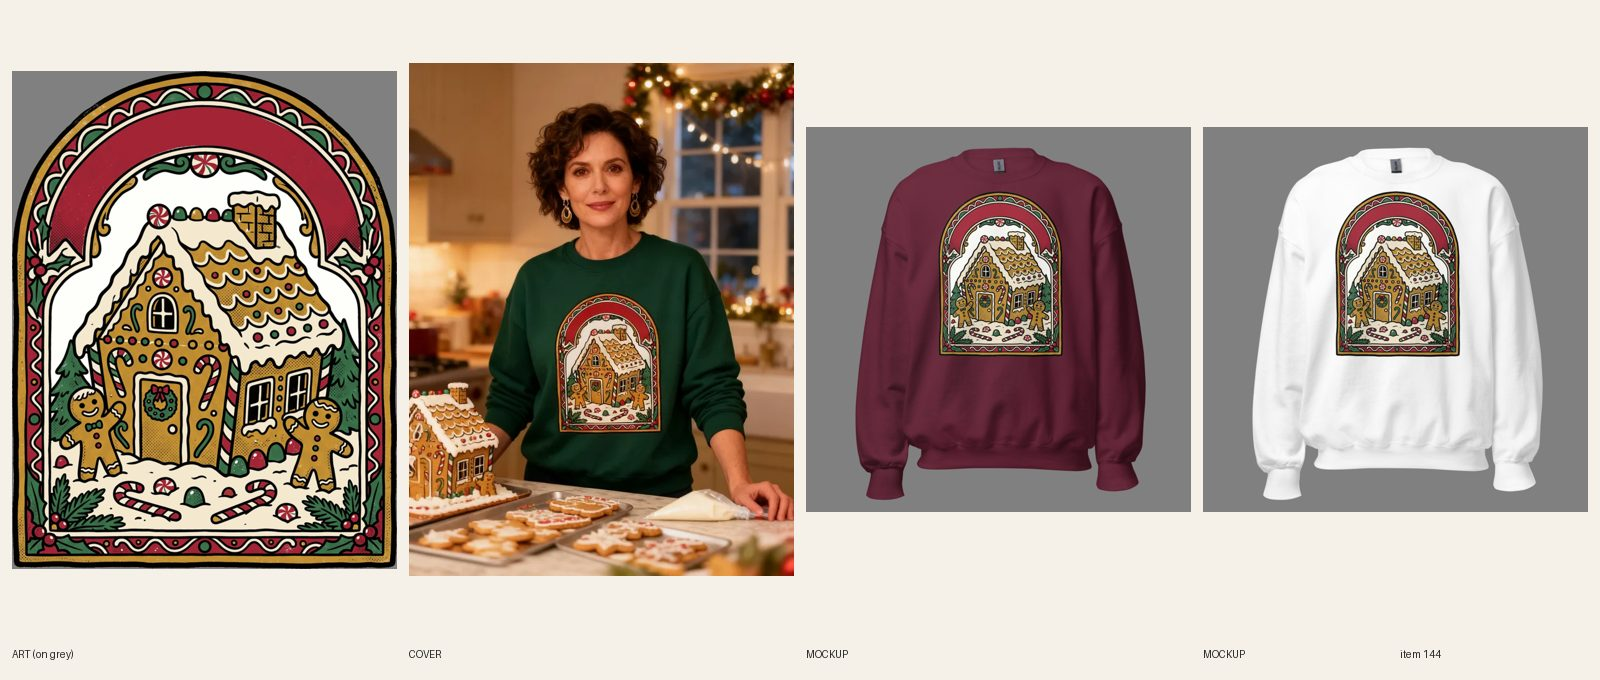
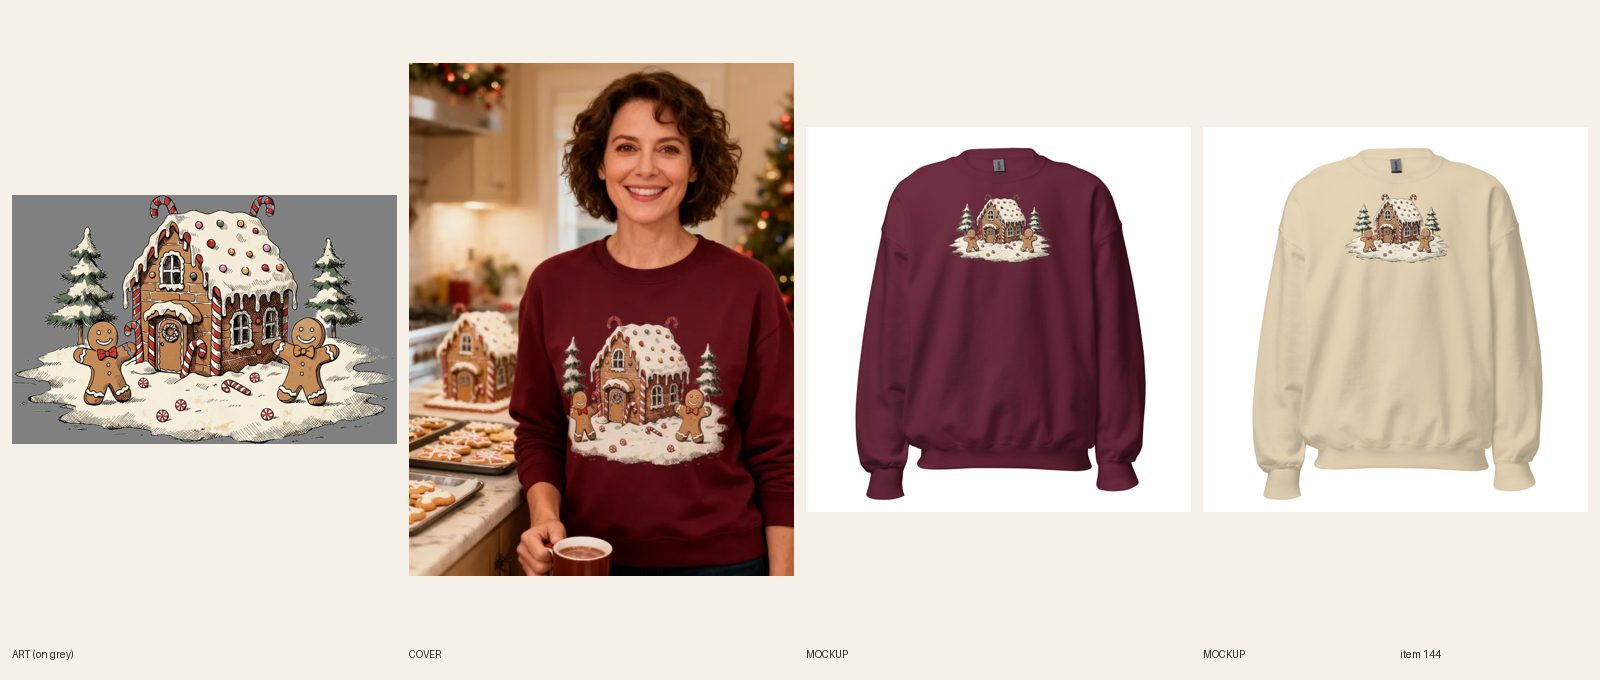
[A] 144 redraw: frameless art, mockups, cover; sync queued

diff --git a/docs/model-registry.md b/docs/model-registry.md
@@ -197,7 +197,7 @@ Rows 11–43 were re-pointed on 2026-10-08 when the briefs were rewritten from d
 | 211 | Woman in her late 50s, sun-kissed skin, short ash-blonde waves | USED 2026-10-16 — Christmas Golf crewneck cover (fal Seedream 4, try 1; clubhouse at Christmas) |
 | 212 | Woman in her mid 20s, long dark hair in a sleek low ponytail with a velvet bow | USED 2026-10-16 — Nutcracker Bow crewneck cover (fal Seedream 4, try 1; nutcracker mantel) |
 | 213 | Woman in her late 30s, strawberry-blonde braid over one shoulder | USED 2026-10-16 — Highland Cow Christmas crewneck cover (fal Seedream 4, try 1; farm Christmas market) |
-| 214 | Woman in her early 40s, short natural curls, warm brown eyes | USED 2026-10-16 — Gingerbread Lane crewneck cover (fal Seedream 4, try 1; cookie-decorating kitchen) |
+| 214 | Woman in her early 40s, short natural curls, warm brown eyes | USED 2026-10-16 — Gingerbread Lane crewneck cover (fal Seedream 4, try 1; cookie-decorating kitchen); REDO 2026-10-16: regenerated for the redrawn frameless art (try 1 kept) |
 | 215 | Woman in her late 60s, white shoulder-length hair, rosy cheeks | USED 2026-10-16 — Vintage Snowman crewneck cover (fal Seedream 4, try 1; snow-day cabin) |
 | 216 | Black man in his late 30s, short fade, neat full beard, broad build | USED 2026-10-16 — Define Naughty tee cover (fal Seedream 4, try 2: try 1 mug covered the print; living room, Christmas morning) |
 | 217 | Pair: Filipino man in his early 30s, side-parted black hair + white woman in her early 30s, copper-red shoulder-length hair | USED 2026-10-16 — #147 Define Naughty crewneck cover (fal Seedream 4, office holiday party; try 2 kept: try 1 had a coffee cup over the print; her cup still clips the end of NAUGHTY, his print is complete) |

diff --git a/docs/pipeline/144-christmas-gingerbread-lane.md b/docs/pipeline/144-christmas-gingerbread-lane.md
@@ -1,4 +1,4 @@
-status: BUILDING [A] 2026-10-16 18:15 UTC
+status: REVIEW
 lane: A
 type: twin
 id: 144
@@ -16,3 +16,4 @@ handle: womens-christmas-gingerbread-lane-crewneck-sweatshirt
 - NOTE for director: the reused tee art is an arched framed emblem (R4.1 badge look); built before the rule, twin reuses it unchanged.
 - 2026-10-16 14:17 UTC director: PARKED. Art and cover are otherwise strong (cover passes R6), copy fine. Asked Sam on Telegram.
 - 2026-10-16 16:39 UTC Claude (Sam decided): REDRAW the art without the arch frame (R4.1). A new art generation is allowed here; update the tee's print file too only if Sam asks later. Keep the same product, cover scene and copy.
+- 2026-10-16 UTC builder [A]: REDRAW done per Sam's call. New frameless art (Recraft v4 try 1, no arch, banner or border: a gingerbread house, two gingerbread men, two pines and peppermints on a snow drift that fades out), print-prep + knock-out checked on grey and maroon, Printful file 1087725265. Same Shopify product (15360179863856), copy and prices unchanged. 8 fronts + back replaced in place (fileUpdate keeps variant links). Cover regenerated for the new art on Maroon (woman #214, kitchen with gingerbread house, try 1). Printful re-sync of all 57 queued: `FORCE=1 python3 scripts/pf-sync.py setfile 482109764 1087725265 1080398177`; the old tee art is untouched (Sam: only if asked later). Status REVIEW now but do not publish until synced = 57 and the file shows the new id. The Printful sync for #144 is in the queue behind #201-207 (~2 hours worst case).
